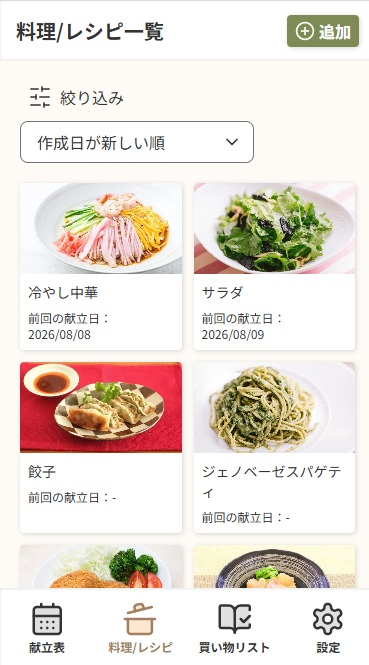
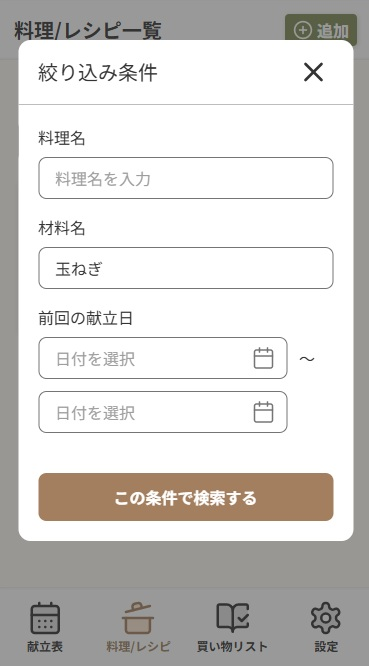
LP文言変更

diff --git a/client/src/app/(lp)/page.tsx b/client/src/app/(lp)/page.tsx
@@ -24,6 +24,7 @@ const heroBenefits = [
 
 const painPoints = [
     '毎日「今日なに作ろう」と考えるのがつらい',
+    'レシピが複数のサイトに散らばっていて、作るたびに探すのが面倒',
     '買い物のたびに何度もスーパーへ行ってしまう',
     '買った食材を使いきれず、無駄にしてしまう',
 ] as const;
@@ -76,7 +77,7 @@ const featureShowcaseItems = [
                 screenName: 'レシピ一覧',
                 src: '/images/lp/features-02.jpg',
                 imageWidth: 369,
-                imageHeight: 665,
+                imageHeight: 666,
             },
         ],
         layout: 'text-first',
@@ -114,7 +115,7 @@ const featureShowcaseItems = [
                 screenName: '買い物リスト',
                 src: '/images/lp/features-04.jpg',
                 imageWidth: 369,
-                imageHeight: 662,
+                imageHeight: 664,
             },
             {
                 screenName: '買い物リストに追加',
@@ -133,7 +134,14 @@ const featureShowcaseItems = [
             'グループ内で献立作成や買い物を分担',
             '全員のデータがリアルタイムに同期',
         ],
-        screenshots: [{ screenName: 'アカウント設定' }],
+        screenshots: [
+            {
+                screenName: 'アカウント設定',
+                src: '/images/lp/features-06.jpg',
+                imageWidth: 368,
+                imageHeight: 667,
+            },
+        ],
         layout: 'screenshot-first',
     },
 ] as const;
@@ -332,7 +340,7 @@ const Home = () => {
                                             className="relative rounded-2xl bg-accent-background px-5 py-4 text-base leading-relaxed sm:text-lg">
                                             {text}
                                             <span
-                                                className="absolute -left-[20px] top-1/2 h-0 w-0 -translate-y-1/2 border-y-[7px] border-r-[20px] border-y-transparent border-r-accent-background"
+                                                className="absolute -left-[20px] top-1/2 hidden h-0 w-0 -translate-y-1/2 border-y-[7px] border-r-[20px] border-y-transparent border-r-accent-background sm:block"
                                                 aria-hidden
                                             />
                                         </li>
@@ -354,7 +362,8 @@ const Home = () => {
                                 。
                             </p>
                             <p className="mt-3 text-center text-base leading-relaxed">
-                                買い物はまとめて1回に。食材を余らせず、作るときは献立表を見るだけです。
+                                買い物はまとめて1回に。食材を余らせず、作るときはレシピを見るだけです。<br />
+                                複数のサイトに散らばっているレシピもmeapでまとめて管理できます。
                             </p>
                         </div>
                     </div>
